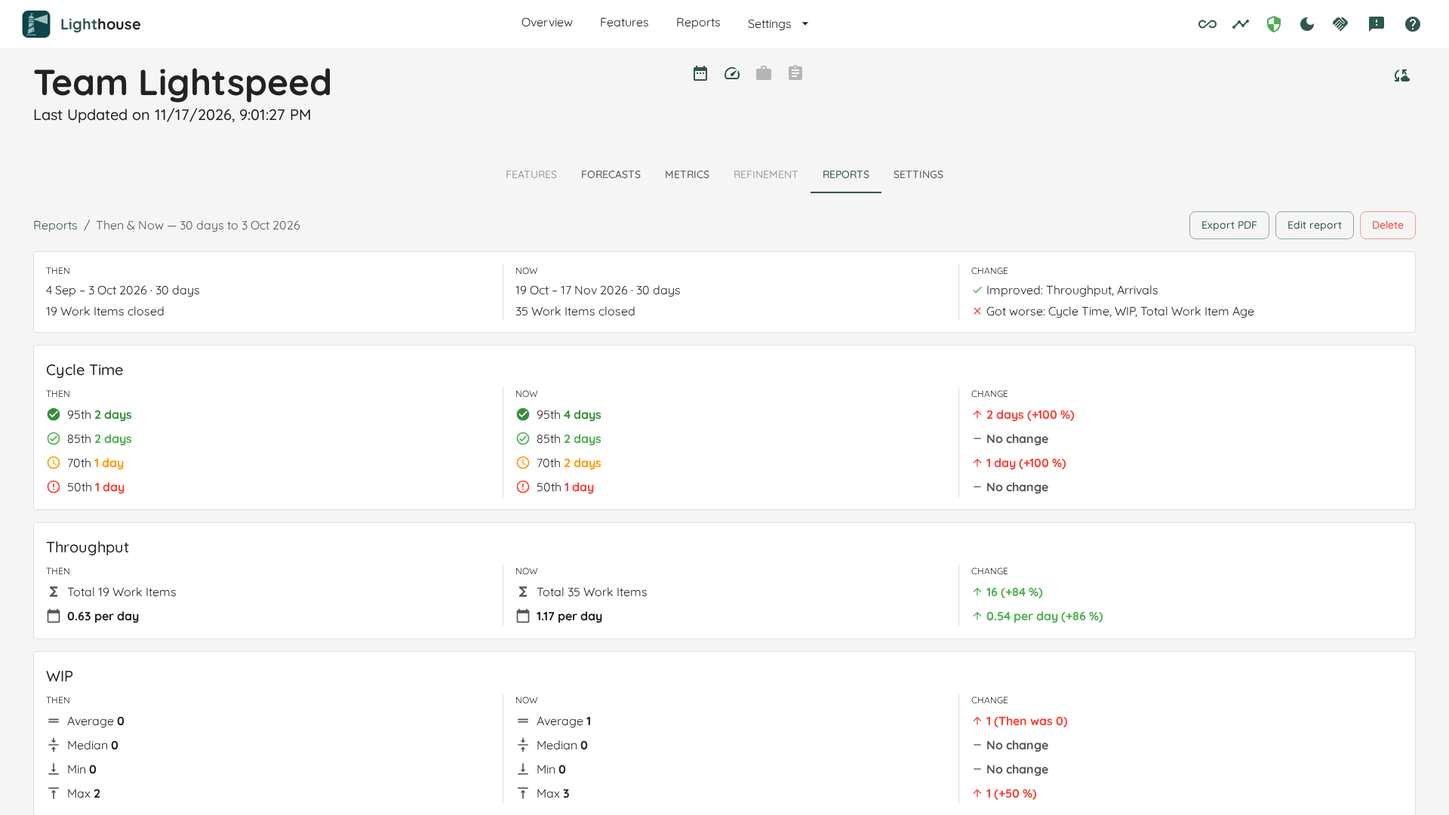
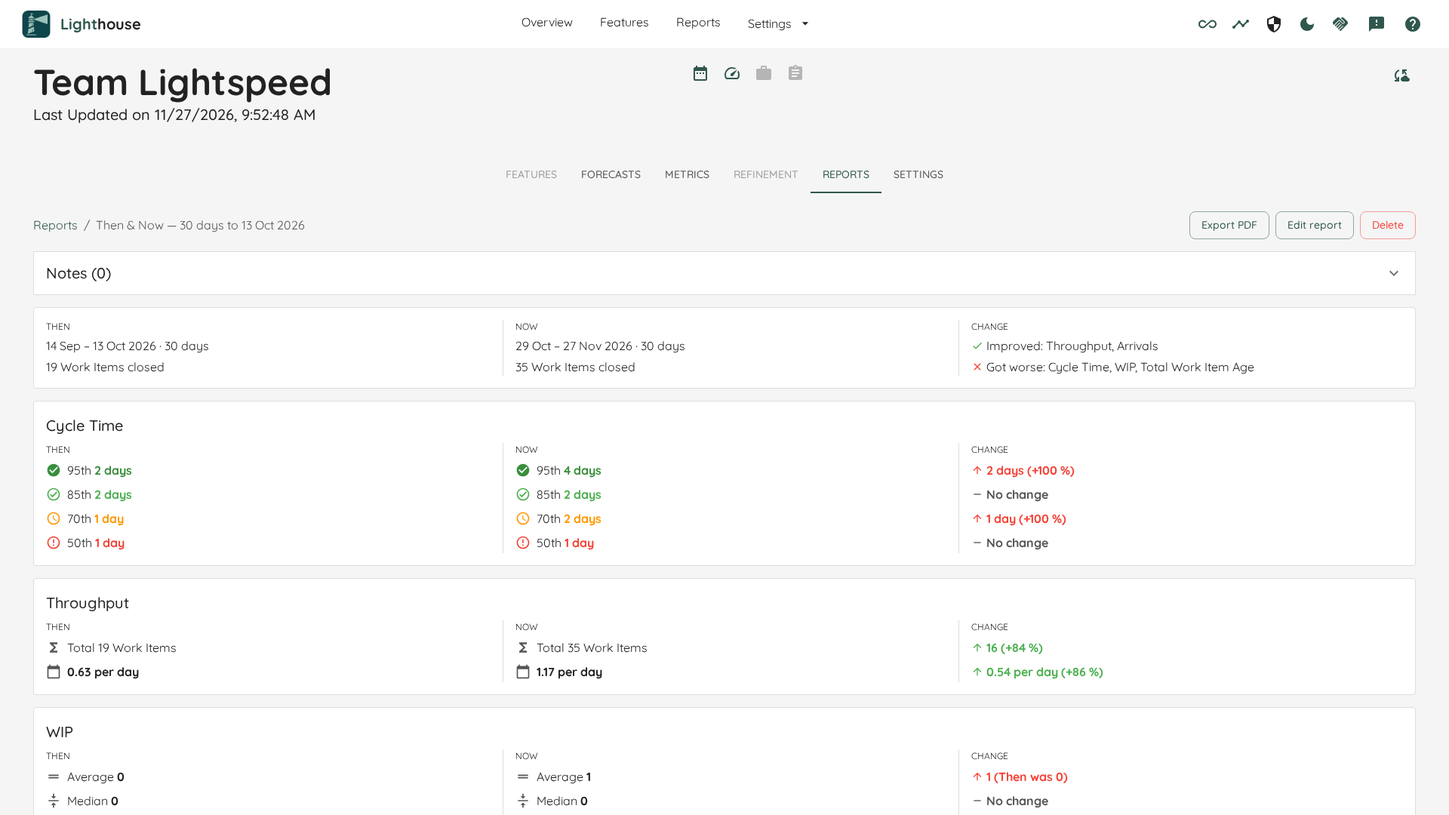
docs(reports): finalize story-6564-report-notes
The Reports docs explain notes: where they sit, who may add, change and
delete them, and that they are not printed. ADR-270 gains the glossary
term "Report note" and ARCHITECTURE.md's Reports row describes the notes.
The Then & Now screenshot is re-taken with the closed notes row, and the
evolution record holds the finalize checklist.

Claude-Session: https://claude.ai/code/session_01ToezcVHEXT8mRUoEMz2AiF

diff --git a/ARCHITECTURE.md b/ARCHITECTURE.md
@@ -103,7 +103,7 @@ The codebase is one assembly organised into **nine logical modules** (namespace 
 | 6 | **RBAC / Identity** (split into ADR-270's **Access** and **Licensing**, the sixth and seventh contexts packaged; Story 6363, 2026-11-22) | **Access:** authentication and authorization: RBAC administration, the current user's profile, API keys, embed sessions, the OIDC group snapshot writer, the auth mode resolver and configuration validator, and Feature move authorization. A role can reach every Team and Portfolio through a system-wide rule (an SSO group mapped to Viewer on all or Admin on all, or the opt-in "everyone signed in" switch), resolved in one place, `EffectiveAccess` (ADR-280, ADR-281). Laid out as ADR-270 Decision 6: `Domain` (`EffectiveAccess`, the API key principal factory, `FeatureReadability`, the OIDC group claim parser and four small value types, depending on the kernel only), `Application` (the services above and their eight ports, `IRbacAdministrationService` among them with its public surface unchanged) and `Adapters.Http` (the ASP.NET pieces: the guard and marker attributes, the API key and disabled-authentication handlers, the scheme selector and the blocked-mode filter). **Licensing:** whether Premium is available and how many units the free tier allows: `Application` (`ILicenseService`, `LicenseService`, `ILicenseVerifier`, `LicenseVerifier`, with the public key it verifies against, `public_key.pem`, beside the verifier) and `Adapters.Http` (`LicenseGuardAttribute`). Access asks Licensing, a legal edge by namespace; Licensing reaches no Access type. The entities, the controllers, the six repositories, the two seeders and the wire DTOs stay in `Models`, `API`, `Services` and `Seeding`; three Access services still use the database context directly (listed). Every other context reaches Access through a guard in the API band or through `IRbacAdministrationService`, and reaches Licensing through the 11 outside types listed in Licensing's rules | `Modules.Access.*` and `Modules.Licensing.*` (`Lighthouse.Backend.Modules.Access.{Domain, Application, Adapters.Http}`, `Lighthouse.Backend.Modules.Licensing.{Application, Adapters.Http}`) |
 | 7 | **Platform / Persistence** (ADR-270's *platform lane*, composition-root infrastructure and not a context; packaged by Story 6364, 2026-11-24) | `LighthouseAppContext`, repositories, DB management, **domain-event dispatcher**, seeding, OAuth token store, the encryption key ring, demo data, usage-data consent and forwarding, logging, release checks and updates, the host facilities and the update queue's mechanics. The `DbContext` with its migrations and every repository stay where they are; every other platform type lives in one of eleven areas of `Lighthouse.Backend.Platform`: `Encryption`, `DatabaseManagement`, `DemoData`, `Seeding`, `Persistence`, `UsageData`, `Logging`, `Releases`, `DomainEvents`, `Host` and `UpdateQueue` (no layers). The Team and Portfolio update pipelines and the context seeders stay in `Services`, each with a named owner | `Data`, `Services.*.Repositories`, `Platform.<Area>` (`Lighthouse.Backend.Platform.{Encryption, DatabaseManagement, DemoData, Seeding, Persistence, UsageData, Logging, Releases, DomainEvents, Host, UpdateQueue}`) |
 | 8 | **Refinement** (ADR-270's **Refinement**, the eighth context packaged; Story 6365, 2026-11-24) | The Team's Refinement tab: which Work Items are in refinement, how many more the Team needs to last one Refinement cycle, and the sizing votes cast on them. Its settings are one JSON value on the Team, saved through the Team settings write. Laid out as ADR-270 Decision 6: `Domain` (`NeedBand`, depending on the kernel only) and `Application` (the list, view query, need calculator, calendars, resolution, stage rules, SLE yardstick, voter identity, the sizing log commands and refusal, and their three ports); its entities and the sizing-log repository pair stay in the kernel and `Services` for now, and the controllers stay in `API`. It depends **down only** — on Work Items, Forecasting, Flow metrics and the kernel, plus listed edges into Access, the platform and the repositories, never on Tracker integration or Promises — and **nothing but `API` and the composition root depends on it**, so it can be removed without touching any other module. Built so far: the settings, the list of Work Items in refinement (`RefinementList`, read-only), the SLE yardstick, and casting a sizing vote, which appends to the sizing log (`SizingLogCommands`, the module's only write), and stages. Stages come only from two optional rules a Team may set, Ready and Being refined, matched by the shared Work Item rule engine (`StageRuleMatcher`) over the Work Items already in refinement and never beyond them; whatever neither matches is Waiting, Ready wins when both match, and a Team with no rule has no stages. The stage and the votes are two independent signals shown side by side: the ready count follows the votes for a Team without stage rules and the stage for a Team with them. The need number is derived on read, never stored: the Team's own manual How Many forecast over one Refinement cycle — the working days after the next Refinement (today, on a Refinement day) up to and including the Refinement after it, so whichever day of the week it is the number stays the same — read at (100 − p) for the band's two likelihoods (50% and 85% by default), and the ready count is judged Below, In (both ends included) or Above that range (`RefinementNeedCalculator`, `NeedBand`). The cycle is a calendar fact (`RefinementCadenceCalendar.CycleFrom`): a Refinement on a blackout day does not happen, so either end skips to the next one that does, and blackout days inside the cycle are not working days. The answer carries facts only, the cycle's first and last day among them; where no number can be given it says why (no cadence, too little Throughput history, no refinement states), and the browser places the "enough for" line. Votes make a Work Item Ready when enough Yes votes come from enough voters, unless one of two discussion rules sends it to discussion (by default 1 No, or 2 "Yes, if…"); a comment from somebody without a current vote is an open question until they vote; every reader sees every split and every comment. A reader votes, comments and takes a vote back under an account when sign-in is on, or under a random key their browser or client keeps and a name they give when it is off. The CLI and the MCP server read the same answer and cast the same votes through the same endpoints. Presenter mode (Epic #6137) and sizing calibration (Epic #6138) are not built | `Modules.Refinement.*` (`Lighthouse.Backend.Modules.Refinement.{Domain, Application}`), `API/Refinement*Controller` |
-| 9 | **Reports** (ADR-270's **Reports**, the ninth context packaged; Story 6366, 2026-11-25) | Saved, owner-scoped reports on a Team's or a Portfolio's Reports tab. A report belongs to exactly one owner and goes when it goes (cascading foreign keys). The first type, Then & Now, freezes a window of the owner's metrics (Then) the moment it is created and compares it with the same metrics over a window as long as Then that ends today (Now), computed afresh on every read; windows are inclusive calendar days in the instance's zone, taken from `ILighthouseClock`. Each type is a strategy (`IReportTemplate`) and each metric a catalog entry (`IReportMetric`) that reads through `IReportMetricSeries`, whose Team adapter goes through the same metrics service the Metrics tab uses, so a report and the tab never disagree. Reads and writes are separate ports: `IReportQueries` reaches persistence only through `IReportReader`; `IReportCommands` also uses `IReportWriter`; one `ReportRepository` implements both and only the composition root names it. Every port operation takes a `ReportOwner`, never a user; the controllers apply the existing Team Read/Write guards. Laid out as ADR-270 Decision 6: `Domain` (`ReportCapPolicy`, `ReportSeriesReading` and `ReportWindowPolicy`, depending on the kernel only), `Application` (the queries, commands, bulk commands and remover, the Then & Now template, the owner lookup and the two series, with their eleven ports) and `Application/Metrics` (the metric catalog and the metrics it holds); the `Report` entity and its payload and read models stay in the kernel (`Models.Reports`), `ReportRepository` stays with the platform repositories, and the controllers stay in `API`. It depends **down only** — on Flow metrics, Licensing, Organisation set-up data (the Team and Portfolio repositories) and the platform infrastructure (the clock), along listed edges, and never on Access beyond the guards in `API`, on Tracker integration or on the update code — and nothing but `API`, the composition root and `ReportRepository` depend on it. Across owners, one `ReportsController` with no owner in its route lists every report on the Teams and Portfolios the caller may read, filtered on the server through `IRbacAdministrationService`, each row naming its owner (ADR-265); a bulk run (`POST reports/bulk`, Premium) or bulk removal (`POST reports/bulk-removal`) is one request of at most 50, answered owner by owner through the same path a single create or delete takes, with each owner's Write access checked on its own (ADR-266) | `Modules.Reports.*` (`Lighthouse.Backend.Modules.Reports.{Domain, Application, Application.Metrics}`), `Models.Reports`, `Services.Implementation.Repositories.ReportRepository`, `API/TeamReportsController`, `API/PortfolioReportsController`, `API/ReportsController` |
+| 9 | **Reports** (ADR-270's **Reports**, the ninth context packaged; Story 6366, 2026-11-25) | Saved, owner-scoped reports on a Team's or a Portfolio's Reports tab. A report belongs to exactly one owner and goes when it goes (cascading foreign keys). The first type, Then & Now, freezes a window of the owner's metrics (Then) the moment it is created and compares it with the same metrics over a window as long as Then that ends today (Now), computed afresh on every read; windows are inclusive calendar days in the instance's zone, taken from `ILighthouseClock`. A report also holds **report notes**: short, dated texts people write on it to give its numbers context, signed with the author's profile when sign-in is on. A signed note is changed only by its author, one nobody signed by anyone with Write on the owner (`NoteSignature`, shared with Delivery notes); notes go with their report and are never printed. `IReportNoteCommands` and `IReportNoteQueries` reach them through `IReportNoteStore`, which `ReportRepository` also implements. Each type is a strategy (`IReportTemplate`) and each metric a catalog entry (`IReportMetric`) that reads through `IReportMetricSeries`, whose Team adapter goes through the same metrics service the Metrics tab uses, so a report and the tab never disagree. Reads and writes are separate ports: `IReportQueries` reaches persistence only through `IReportReader`; `IReportCommands` also uses `IReportWriter`; one `ReportRepository` implements both and only the composition root names it. Every port operation takes a `ReportOwner`, never a user; the controllers apply the existing Team Read/Write guards. Laid out as ADR-270 Decision 6: `Domain` (`ReportCapPolicy`, `ReportSeriesReading` and `ReportWindowPolicy`, depending on the kernel only), `Application` (the queries, commands, bulk commands and remover, the Then & Now template, the owner lookup and the two series, with their eleven ports) and `Application/Metrics` (the metric catalog and the metrics it holds); the `Report` entity and its payload and read models stay in the kernel (`Models.Reports`), `ReportRepository` stays with the platform repositories, and the controllers stay in `API`. It depends **down only** — on Flow metrics, Licensing, Organisation set-up data (the Team and Portfolio repositories) and the platform infrastructure (the clock), along listed edges, and never on Access beyond the guards in `API`, on Tracker integration or on the update code — and nothing but `API`, the composition root and `ReportRepository` depend on it. Across owners, one `ReportsController` with no owner in its route lists every report on the Teams and Portfolios the caller may read, filtered on the server through `IRbacAdministrationService`, each row naming its owner (ADR-265); a bulk run (`POST reports/bulk`, Premium) or bulk removal (`POST reports/bulk-removal`) is one request of at most 50, answered owner by owner through the same path a single create or delete takes, with each owner's Write access checked on its own (ADR-266) | `Modules.Reports.*` (`Lighthouse.Backend.Modules.Reports.{Domain, Application, Application.Metrics}`), `Models.Reports`, `Services.Implementation.Repositories.ReportRepository`, `API/TeamReportsController`, `API/PortfolioReportsController`, `API/ReportsController` |
 
 Plus three non-module bands:
 - **`Models` — the shared kernel** at the bottom. Entities, value objects, **and the DTOs that services return** (relocated out of `API.DTO` so the core never depends on the API layer — ADO #5101). Everything may depend downward on `Models`.

diff --git a/docs/product/architecture/adr-270-bounded-contexts-context-map-and-module-layout.md b/docs/product/architecture/adr-270-bounded-contexts-context-map-and-module-layout.md
@@ -68,7 +68,7 @@ set-up, the Deliveries go to Promises. RBAC/Identity splits into Access and Lice
 | **Promises** | **core** | A promise is a target date someone committed to for a set of items on one level, compared against the forecast, with a history of how it ended (kept, missed, renegotiated by moving the target or cutting scope). It includes planning: deciding what fits before committing ("what can we promise by the end of the PI?"). In the user's language one promise is a **Delivery**. A Delivery holds items of the level it hangs off; today's Deliveries are this rule on the Feature level. | Deliveries, their rules, sources (Jira Releases), notes, closure pins and metric snapshots | The Delivery half of Portfolio/Delivery | **Packaged** in `Modules/Promises` by Story 6362 (2026-11-17): the Delivery rule service, the source resolver and its preview, the source sync, forecast publishing, the forecast block and its renderer, the metric-values projector, and the two reactions to "forecasts updated" (snapshot recording, forecast publishing). Its entities (`Delivery`, `DeliveryClosureRecord`, `DeliveryMetricSnapshot`, `DeliveryNote`), the kernel Delivery types, the source types the connector port reads and its wire DTOs still sit in `Models` and `API/DTO`; only the forecast block's two types moved. Delivery persistence (the two repositories and `RecordableDeliveries`) stays with the platform repositories until S05d; the Portfolio refresh still calls the rule and sync services inline until Epic 6474 slice 12. Promise lifecycle events and Deliveries on levels above the Feature are **target only** |
 | **Signals** | supporting | Turns state into attention: red, amber and green on two levels, the health of a unit or level (for example how many of its items are blocked or stale) and the promise (a Feature's or Delivery's likelihood of hitting its date). It owns thresholds, the current state and the history of when a signal changed, and it suggests when a promise should be renegotiated. One context so that the threshold-and-history mechanism is built once, not twice in Metrics and Promises. | Signal thresholds, current states, change history | None | **Target only.** Nothing to package; SLE risk stays in Flow metrics until the first Signals feature |
 | **Refinement** | supporting | At the leaf, a way of working: which Work Items are in refinement, how many more the Team needs, sizing votes and stages. On levels above the leaf a different form may come, sizing items approximately for reference-class forecasting, where it would feed Forecasting. | The Refinement settings, the sizing log, stage resolution, the need band | Refinement | **Packaged** in `Modules/Refinement` by Story 6365 (2026-11-24), in its leaf form: `NeedBand` in `Domain`; the list, view query, need calculator, calendars, resolution, stage rules, SLE yardstick, voter identity, the sizing log commands and refusal, and their three ports in `Application`. Its entities, the sizing-log repository pair and its wire DTOs still sit in `Models`, `Services` and `API/DTO`, and the controllers stay in `API`. Refinement above the leaf is target |
-| **Reports** | supporting | Turns live numbers into a frozen record for others. Then & Now is the first report type; more follow (metric charts, signals). It conforms to Flow metrics for numbers and is the outbound channel to people outside Lighthouse (PDF export today; scheduled delivery in future). | Reports and their frozen windows (Then), templates, the metric catalog | Reports | **Packaged** in `Modules/Reports` by Story 6366 (2026-11-25): `ReportCapPolicy`, `ReportSeriesReading` and `ReportWindowPolicy` in `Domain`; the queries, commands, bulk commands and remover, the Then & Now template, the owner lookup, the two series and their eleven ports in `Application`; the metric catalog and its metrics in `Application/Metrics`. The `Report` entity, its payload and read models (`Models/Reports`), `ReportRepository` and the three controllers still sit in `Models`, `Services` and `API`. Scheduled delivery and further report types are target |
+| **Reports** | supporting | Turns live numbers into a frozen record for others. Then & Now is the first report type; more follow (metric charts, signals). It conforms to Flow metrics for numbers and is the outbound channel to people outside Lighthouse (PDF export today; scheduled delivery in future). | Reports and their notes, their frozen windows (Then), templates, the metric catalog | Reports | **Packaged** in `Modules/Reports` by Story 6366 (2026-11-25): `ReportCapPolicy`, `ReportSeriesReading` and `ReportWindowPolicy` in `Domain`; the queries, commands, bulk commands and remover, the Then & Now template, the owner lookup, the two series and their eleven ports in `Application`; the metric catalog and its metrics in `Application/Metrics`. The `Report` entity, its payload and read models (`Models/Reports`), `ReportRepository` and the three controllers still sit in `Models`, `Services` and `API`. Scheduled delivery and further report types are target |
 | **Access** | generic | Who may do what: organisation-wide roles (System Admin, broad readers, Admin on all) plus membership per unit. It follows the units that exist and has no story of its own beyond that. *Not allowed* is Access; *not relevant* (which level a person sees by default) is not. | Users, roles, unit memberships, IdP group mappings, API keys, embed sessions | RBAC / Identity (minus licensing) | **Packaged** in `Modules/Access` by Story 6363 (2026-11-22): RBAC administration, the current user's profile, API keys, embed sessions, the OIDC group snapshot writer, the auth mode resolver and configuration validator, Feature move authorization, and the ASP.NET guards, markers and authentication handlers in `Adapters/Http`. Its entities, the types the controllers read or return, the six repositories, the two seeders and the controllers still sit in `Models`, `Services`, `Seeding` and `API`; only four small value types of `Models` moved. Membership per unit on any level is target |
 | **Licensing** | generic | Whether Premium is available and how many units the free tier allows, published as facts the others react to: licence loaded, licence in its last 30 days, licence expired. | The licence, its verification, the free-tier limits | RBAC / Identity (`Services.*.Licensing`, the premium gate), as ARCHITECTURE.md §4 and the `Services.Implementation.Licensing` namespace show. The board's "inside Platform" was a slip | **Packaged** (small) in `Modules/Licensing` by Story 6363 (2026-11-22): the licence service and verifier with their ports, the public key beside the verifier, and the licence guard attribute in `Adapters/Http`. The licence entity and its DTOs stay in `Models` and `API/DTO`. The three licence events are **target**; today all three facts are derived on read |
 | *(Platform lane)* | **not a context** | Composition-root infrastructure below the domain: the encryption key ring, backups and restore, demo data, version update, log level, usage-data consent and forwarding, start-up housekeeping, the `DbContext` and database management, the domain-event dispatcher, the update queue's mechanics, health and graceful shutdown. No user names any of it as part of the story. | The infrastructure the contexts run on | Platform / Persistence, and the host band | **Packaged** in `Lighthouse.Backend.Platform.<Area>` by Story 6364 (2026-11-24), still part of the composition root and not a context. Eleven areas, no layers: `Encryption`, `DatabaseManagement`, `DemoData`, `Seeding`, `Persistence` (the race-tolerant save), `UsageData`, `Logging`, `Releases`, `DomainEvents`, `Host` (the host facilities) and `UpdateQueue` (the queue's mechanics only). The lane has its own direction rules R-PL1 to R-PL4 and a placement rule (see "Edges measured by packaging the platform lane"). Still outside it, each with a named owner: `Data` and its migrations, every repository, the Team and Portfolio update pipelines (`TeamUpdater`, `PortfolioUpdater`, `UpdateServiceBase<T>`), the context seeders |
@@ -868,6 +868,7 @@ the maintainer). The refresh process itself is still called sync.
 |---|---|---|---|
 | Refinement | Getting Work Items ready at the leaf; above the leaf, approximate sizing for Forecasting (target) | `Refinement*` | |
 | Report | A frozen record of live numbers, kept for others | `Report`, `IReportTemplate` | |
+| Report note | A short, dated text a person writes on one report to give its numbers context. It shows who wrote it when someone signed it, goes when its report goes, and is never printed | `ReportNote`, `IReportNoteCommands`, `IReportNoteQueries` | |
 | Member | A person with a role on one unit | Team member, Portfolio member | Becomes per unit on any level |
 | System-wide rule | A rule that gives a role on every unit at once, including units created later: an SSO group mapped to Viewer on all or Admin on all, or the everyone signed in switch. Only a System Admin changes it | A group mapping on the `AllUnits` scope; `EveryoneSignedInSetting` | |
 | Everyone signed in | The opt-in switch that gives Viewer on all to every signed-in person. Off after install; it can only say view | `EveryoneSignedInSetting` | |

diff --git a/docs/evolution/story-6564-report-notes/evolution.md b/docs/evolution/story-6564-report-notes/evolution.md
@@ -1,0 +1,69 @@
+# Story 6564 — Notes on reports
+
+**Finished:** 2026-11-27 · ADO User Story #6564 "Add notes to reports" · no parent Epic
+
+## The problem
+
+A report freezes numbers, but not the reasons they moved. Whoever opens a Then & Now report months later sees that
+Cycle Time dropped and cannot tell that the Team grew from 6 to 9 people or spent two weeks in training. That context
+lived in people's heads, in slide notes or nowhere.
+
+## What changed
+
+- **Notes on every report.** A short, dated text on one report, at most 2000 characters, built like the Delivery notes.
+  Each note shows the day it was written, its author's name when sign-in is on, and "edited <day>" once changed. The
+  newest note comes first.
+- **Who may do what.** Everyone who can read a report reads its notes. Adding takes Write on the Team or Portfolio. A
+  signed note is changed or deleted only by its author; one written with sign-in off, by anyone with Write. With sign-in
+  on and no profile, a write is refused. `NoteSignature` holds that rule for Delivery notes and report notes alike.
+- **Where the notes sit.** Between the report's name and its numbers, in a row that starts closed and reads
+  "Notes (<count>)", "Notes" while the notes load or cannot be loaded. The maintainer first chose an open area above the
+  numbers (Option A), then asked on 2026-11-27 for it to start closed, so the numbers come first.
+- **Notes go with their report**, also when a Team or Portfolio is deleted, and are never printed or put in a PDF.
+- **Usage data:** the name-only event `ReportNoteAdded`, listed in `docs/settings/usagedata.md`.
+- One additive table `ReportNotes` (cascade to `Reports`, set-null to the author's profile), migrated on SQLite and
+  Postgres.
+
+Commits: S1 `ec928023f` (add and read), S2 `8ad562553` (readers, print), S3 `29798fa97` and `31a8b7c21` (change and
+delete), the collapsed notes `0c9ca5b5f`, and the refactor, oracle, review and mutation commits around them.
+
+## Key decisions
+
+- One kind of note, dated by the day it was written; no separate event date (maintainer, DISCUSS).
+- Same change and delete rule as Delivery notes (maintainer, DISCUSS).
+- Notes not in the CLI or MCP report reads for now (maintainer, DISCUSS).
+- Report notes live in `Modules/Reports`, and the store is a port that `ReportRepository` implements.
+- Last save wins on concurrent edits; a change to a note deleted meanwhile answers not found (`31a8b7c21`).
+- Collapsed by default, at the same place, "Notes (0)" when empty (maintainer, 2026-11-27).
+
+## Quality
+
+- nwdes: three slices, each with an approved oracle and an observed RED, then a slice review; the whole-candidate review
+  was accepted (`f3dfeda76`). EXAMINE closed indeterminate by maintainer decision (`afe603838`).
+- The collapsed notes went the direct route with one Haiku review, whose test gaps were closed before the commit.
+- The maintainer checked the Story by hand in the running app on 2026-11-27.
+- Mutation: backend 86.4 % and frontend 91.1 %, both over the 80 % gate, after kill rounds that added wire, repository,
+  service and component tests. Survivors are triaged in `docs/feature/story-6564-report-notes/mutation/results.md`.
+- CI: the first push failed twice on the connection-defaults Slice06 scenario, which read the Task Manager after the
+  updates had finished. Fixed in the test helper (`66604d44f`), and run 45954183788 went green.
+
+## Finalize checklist
+
+| Item | Answer |
+|---|---|
+| Docs prose | Done: `docs/reports/reports.md` gains "Notes" (reading, adding, changing and deleting), the PDF line and three rows in "Who Can Do What". |
+| Screenshots | Done: `features/report_thenandnow.png` re-taken, it now shows the closed "Notes (0)" row. The other report shots show no open report, so they are unchanged. |
+| Demo data | N/A, because notes are context people write themselves; the demo data adds no notes. |
+| Website assets | Only `features/report_thenandnow.png` changed. Not checked whether the website hot-links it; if it does, it now shows the closed notes row, which is correct. |
+| Clients (CLI, MCP) | N/A, because the maintainer chose "not now"; the report routes and DTOs the clients read are unchanged. |
+| Context map, `ARCHITECTURE.md` | Done: ADR-270 gains the glossary term "Report note" and "their notes" in the Reports row; `ARCHITECTURE.md` §4's Reports row describes the notes. |
+| Usage-data event | Done in S1: `ReportNoteAdded`, name only, listed in `docs/settings/usagedata.md`. |
+| Mutation | Done: backend 86.4 %, frontend 91.1 %. |
+| Release notes | N/A; written at /release. |
+
+## Left open
+
+- Delivery notes have the same gap as report notes once had for sign-in on with no profile: a write there is not refused.
+  A possible Bug, not created.
+- `ReportRepository.TrySave`'s concurrency branch has no test in the mutation filter (see the mutation results).
+- A freer arrangement of a report's parts was mentioned by the maintainer as a possible later item.

diff --git a/docs/reports/reports.md b/docs/reports/reports.md
@@ -46,6 +46,32 @@ Click **Delete** next to the report's name, or the 🗑 icon in its row on th
 
 A report belongs to its Team or Portfolio. When you [delete a Team](../teams/teams.html#delete-a-team) or [a Portfolio](../portfolios/portfolios.html#delete-a-portfolio), its reports are deleted with it. The confirmation dialog tells you how many reports go too.
 
+The [notes](#notes) of a report are deleted with the report.
+
+# Notes
+
+The numbers of a report do not say why they moved. A note does: "The team grew from 6 to 9 people", "Two weeks of training in March". Notes are short texts that you and others write on a report, so that whoever reads it later knows what happened in the meantime.
+
+## Reading the Notes
+
+The notes sit under the report's name, above the numbers, in a row that starts closed: **Notes (2)** tells you that the report has two notes. Click the row to open it. A report without notes shows **Notes (0)**.
+
+Each note shows its text, the day it was written and, when [authentication](../Installation/authentication.html) is on, the name of the person who wrote it. A changed note also shows the day it was changed, for example "2026-10-03 · Ann · edited 2026-10-04". The newest note comes first.
+
+While the notes load, the row shows only **Notes** and the open row shows a spinner. If the notes cannot be loaded, the open row says so and offers *Retry*. The numbers of the report still show either way.
+
+## Adding a Note
+
+Open the row, type your note in the *Note* field and click **Add note**. A note needs some text, and it can have at most 2000 characters. Line breaks are kept.
+
+## Changing and Deleting a Note
+
+Click **Edit** on a note to change its text, then *Save*, or *Cancel* to leave it as it was. Click **Delete** to remove it. Deleting a note cannot be undone.
+
+You can change and delete the notes you wrote. A note written while authentication was off has no author, and everyone who may change the report can change or delete it.
+
+Notes are not part of the [PDF](#export-pdf).
+
 # Export PDF
 
 A report often has to reach people who never open Lighthouse: a sponsor, a steering meeting, a slide deck. **Export PDF** turns the report into a dated, branded file you can send to them.
@@ -62,7 +88,7 @@ While the PDF is being prepared, the button (or the row's icon) shows a small sp
 ## What the PDF Holds
 
 - **A line at the top of every page** with the Team or Portfolio, the report's name, its windows, and when the PDF was produced, for example "Produced 20 Oct 2026, 12:21". The time is your local time.
-- **The report itself**, with its name as the title on the first page, followed by its summary and panels, as on screen.
+- **The report itself**, with its name as the title on the first page, followed by its summary and panels, as on screen. The report's notes are not printed.
 - **A footer on every page** with the Lighthouse mark and "Made with Lighthouse by LetPeopleWork · letpeople.work".
 
 The PDF is always light, whatever theme you use in Lighthouse. Your browser usually suggests the report's name and its Team or Portfolio as the file name.
@@ -202,6 +228,9 @@ As for a single report, **Export PDF (n)** is greyed out in the [Standalone app]
 | See a report on the Reports page | Everyone who can read the report. Rows of Teams and Portfolios you cannot read are not listed |
 | Export a report, or several, as a PDF | Everyone who can read the reports |
 | Create, edit and delete reports | System Admins, and the Team Admins or Portfolio Admins of that Team or Portfolio |
+| Read the notes of a report | Everyone who can read the report |
+| Add a note | The same people who can edit the report |
+| Change or delete a note | Its author, if they can still edit the report. A note without an author: everyone who can edit the report |
 | Create reports for several Teams and Portfolios | The same people, for each Team or Portfolio they are Admin of. The wizard lists only those, and Lighthouse checks every one again when it creates (Premium) |
 | Remove several reports | Only when you may delete every selected report |
 
